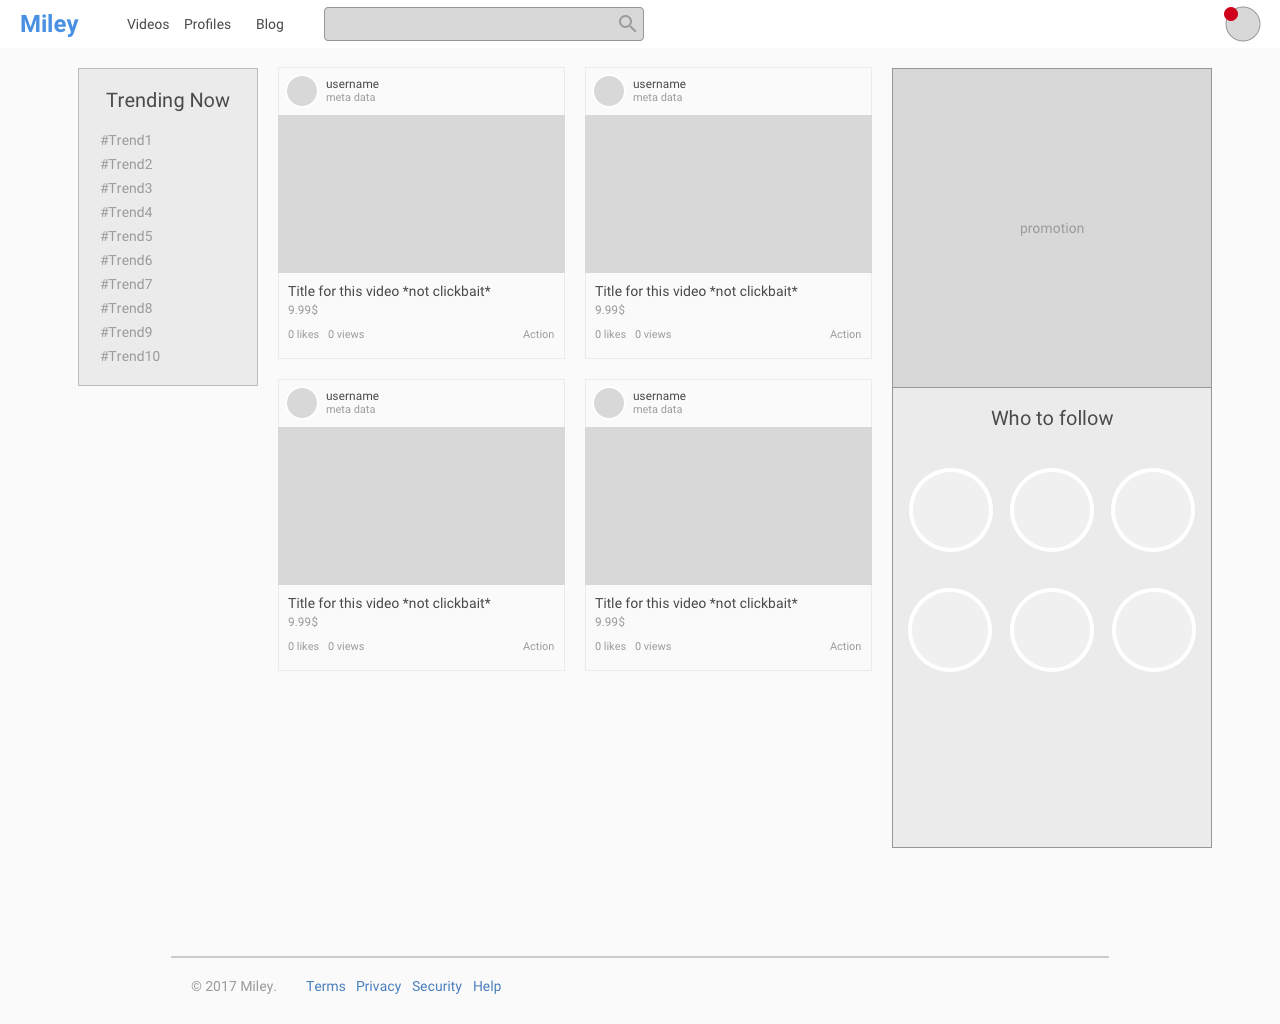
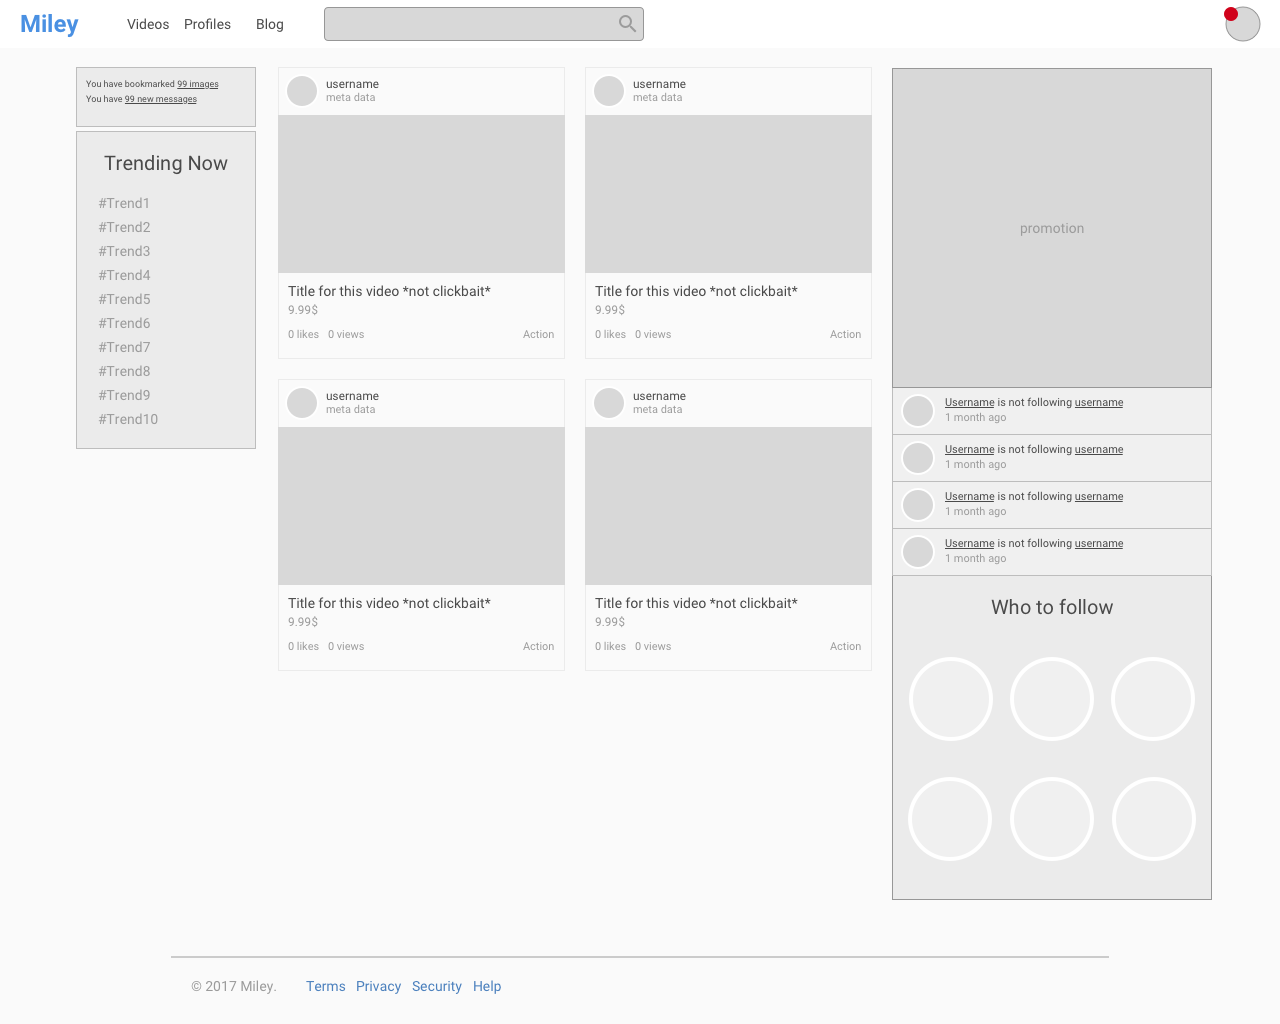
🛍

Changed region(s): [[0.0625, 0.0625, 0.1875, 0.4375], [0.6875, 0.375, 0.875, 0.5625], [0.8438, 0.5312, 0.875, 0.5625]]

diff --git a/miley/public/css/main.css b/miley/public/css/main.css
@@ -1,2 +1,2 @@
-body{background:#fafafa;font-family:"open Sans", sans-serif;font-size:14px;margin:0}a{color:#4990E2}a:active{color:#2f80de}a:hover{color:#63a0e6}.container{margin:0 auto;max-width:88em}.container::after{clear:both;content:"";display:block}.columns::after{clear:both;content:"";display:table}.columns .column.one{width:calc(16.66667% - 11.66667px);float:left;margin-left:10px}.columns .column.two{width:calc(33.33333% - 13.33333px);float:left;margin-left:10px}.columns .column.three{width:calc(50% - 15px);float:left;margin-left:10px}.columns .column.four{width:calc(66.66667% - 16.66667px);float:left;margin-left:10px}.columns .column.five{width:calc(83.33333% - 18.33333px);float:left;margin-left:10px}.columns .column.six{width:calc(100% - 20px);float:left;margin-left:10px}.navbar{background:#fff;border-bottom:1px solid #BDBDBD;height:48px}.navbar .logo{color:#4990E2;font-size:24px;font-weight:700;margin:0;position:relative;top:0.25em}.navbar ul{display:inline-block;list-style-type:none;margin:0}.navbar ul li{display:inline-block}.navbar a{color:#4A4A4A;padding:1em;text-decoration:none}.profile.header{background:#269FF0;height:420px;position:relative}.profile.header .picture{border:4px solid #fff;border-radius:50%;bottom:-90px;display:block;height:180px;overflow:hidden;position:absolute;width:180px}.profile.header .picture img{display:block}.profile.header .profile.name{color:#fff;font-size:24px;font-weight:300;margin:0;padding:0}form ul{list-style-type:none;margin:0;padding:0}form ul li{margin:0 0 1em 0}.activities{border:1px solid #BDBDBD}.activities .activity{border-bottom:1px solid #BDBDBD;background:#efefef;font-size:11px;padding:4px 0}.activities .activity::after{clear:both;content:"";display:table}.activities .activity:last-child{border-bottom:none}.activities .activity:nth-child(2n-1){background:#F0F0F0}.activities .activity .avatar{float:left;height:32px;margin:0 10px 0 4px;width:32px}.activities .activity .avatar img{border:1px solid #fff;border-radius:50%;max-width:100%}.activities .activity .picture{float:left}.activities .activity .meta{color:#9B9B9B}.activities .activity a{color:#4a4a4a}.ad.sidebar{background:#D8D8D8;border:1px solid #979797;height:320px}.recommended .title{font-size:20px;text-align:center}.recommended .profiles.list{list-style-type:none;margin:0;padding:0}.recommended .profiles .profile{display:inline-block;margin:10px;width:80px}.recommended .profiles .avatar{height:18px;width:18px}.recommended .profiles .avatar img{border:4px solid #fff;border-radius:50%;max-width:100%}#footer{border-top:1px solid #BDBDBD;color:#999;margin:4em 0 0 0;padding:0.75em 0.25em}
+body{background:#fafafa;font-family:"open Sans", sans-serif;font-size:14px;margin:0}a{color:#4990E2}a:active{color:#2f80de}a:hover{color:#63a0e6}.container{margin:0 auto;max-width:88em}.container::after{clear:both;content:"";display:block}#main-content{margin:20px 0 0 0}.columns::after{clear:both;content:"";display:table}.columns .column.one{width:calc(16.66667% - 11.66667px);float:left;margin-left:10px}.columns .column.two{width:calc(33.33333% - 13.33333px);float:left;margin-left:10px}.columns .column.three{width:calc(50% - 15px);float:left;margin-left:10px}.columns .column.four{width:calc(66.66667% - 16.66667px);float:left;margin-left:10px}.columns .column.five{width:calc(83.33333% - 18.33333px);float:left;margin-left:10px}.columns .column.six{width:calc(100% - 20px);float:left;margin-left:10px}.navbar{background:#fff;border-bottom:1px solid #BDBDBD;height:48px}.navbar .logo{color:#4990E2;font-size:24px;font-weight:700;margin:0;position:relative;top:0.25em}.navbar ul{display:inline-block;list-style-type:none;margin:0}.navbar ul li{display:inline-block}.navbar a{color:#4A4A4A;padding:1em;text-decoration:none}.profile.header{background:#269FF0;height:420px;position:relative}.profile.header .picture{border:4px solid #fff;border-radius:50%;bottom:-90px;display:block;height:180px;overflow:hidden;position:absolute;width:180px}.profile.header .picture img{display:block}.profile.header .profile.name{color:#fff;font-size:24px;font-weight:300;margin:0;padding:0}form ul{list-style-type:none;margin:0;padding:0}form ul li{margin:0 0 1em 0}.cards .card{background:#fff;border:1px solid #efefef;display:inline-block;margin:0 0 20px 0;width:288px}.cards .card .header{height:48px;padding:8px 8px 0 8px}.cards .card .header::after{clear:both;content:"";display:table}.cards .card .header .avatar{background:#efefef;border:1px solid #fff;border-radius:50%;display:inline-block;float:left;height:32px;margin:0 8px 0 0;width:32px}.cards .card .header .user.details{margin-top:8px}.cards .card .header .user .name{color:#4A4A4A;display:block;font-size:12px;line-height:0.25em}.cards .card .header .user .meta{color:#9B9B9B;display:inline-block;font-size:11px;line-height:0.25em}.cards .card .picture{background:#efefef}.cards .card .picture a{display:block;height:158px;text-decoration:none}.cards .card .description{color:#9B9B9B;font-size:12px;padding:8px}.cards .card .description .title{color:#4A4A4A;font-size:14px;line-height:1em;margin:0}.cards .card .description .title a{color:inherit;text-decoration:none}.cards .card .meta{border:0;position:relative}.cards .card .meta::after{clear:both;content:"";display:table}.cards .card .meta .actions{float:right;text-align:right}.activities{border:1px solid #BDBDBD}.activities .activity{border-bottom:1px solid #BDBDBD;background:#efefef;font-size:11px;padding:4px 0}.activities .activity::after{clear:both;content:"";display:table}.activities .activity:last-child{border-bottom:none}.activities .activity:nth-child(2n-1){background:#F0F0F0}.activities .activity .avatar{float:left;height:32px;margin:0 10px 0 4px;width:32px}.activities .activity .avatar img{border:1px solid #fff;border-radius:50%;max-width:100%}.activities .activity .picture{float:left}.activities .activity .meta{color:#9B9B9B}.activities .activity a{color:#4a4a4a}.ad.sidebar{background:#D8D8D8;border:1px solid #979797;height:320px}.sidebar{font-size:11px}.sidebar ul{list-style-type:none;margin:0;padding:0}.sidebar .widget{background:#EBEBEB;border:1px solid #BDBDBD;color:#4A4A4A;margin:0 0 4px 0;padding:8px}.trends .title{text-align:center}.trends ul li{margin:0 12px 8px 12px}.trends a{color:#9B9B9B}.recommended .title{font-size:20px;text-align:center}.recommended .profiles.list{list-style-type:none;margin:0;padding:0}.recommended .profiles .profile{display:inline-block;margin:10px;width:80px}.recommended .profiles .avatar{height:18px;width:18px}.recommended .profiles .avatar img{border:4px solid #fff;border-radius:50%;max-width:100%}#footer{color:#999;margin:2em 0 0 0;padding:2em 0.25em}#footer .container{border-top:2px solid #BDBDBD;padding-top:2em}
 /*# sourceMappingURL=main.css.map */

diff --git a/src/css/main.scss b/src/css/main.scss
@@ -31,6 +31,10 @@ a{
   max-width: 88em;
 }
 
+#main-content{
+  margin: 20px 0 0 0;
+}
+
 .columns{
   @include clearfix;
 
@@ -113,6 +117,92 @@ form{
   }
 }
 
+.cards{
+  .card{
+    background: #fff;
+    border: 1px solid #efefef;
+    display: inline-block;
+    margin: 0 0 20px 0;
+    width: 288px;
+
+    .header{
+      @include clearfix;
+      height: 48px;
+      padding: 8px 8px 0 8px;
+
+      .avatar{
+        background: #efefef;
+        border: 1px solid #fff;
+        border-radius: 50%;
+        display: inline-block;
+        float: left;
+        height: 32px;
+        margin: 0 8px 0 0;
+        width: 32px;
+      }
+
+      .user{
+        &.details{
+          margin-top: 8px;
+        }
+
+        .name{
+          color: #4A4A4A;
+          display: block;
+          font-size: 12px;
+          line-height: 0.25em;
+        }
+
+        .meta{
+          color: #9B9B9B;
+          display: inline-block;
+          font-size: 11px;
+          line-height: 0.25em;
+        }
+      }
+    }
+
+    .picture{
+      background: #efefef;
+
+      a{
+        display: block;
+        height: 158px;
+        text-decoration: none;
+      }
+    }
+
+    .description{
+      color: #9B9B9B;
+      font-size: 12px;
+      padding: 8px;
+
+      .title{
+        color: #4A4A4A;
+        font-size: 14px;
+        line-height: 1em;
+        margin: 0;
+
+        a{
+          color: inherit;
+          text-decoration: none;
+        }
+      }
+    }
+
+    .meta{
+      @include clearfix;;
+      border: 0;
+      position: relative;
+
+      .actions{
+        float: right;
+        text-align: right;
+      }
+    }
+  }
+}
+
 .activities {
   border: $borderDivider;
 
@@ -166,6 +256,38 @@ form{
   }
 }
 
+.sidebar{
+  font-size: 11px;
+
+  ul{
+    list-style-type: none;
+    margin: 0;
+    padding: 0;
+  }
+
+  .widget{
+    background: #EBEBEB;
+    border: 1px solid #BDBDBD;
+    color: #4A4A4A;
+    margin: 0 0 4px 0;
+    padding: 8px;
+  }
+}
+
+.trends{
+  .title{
+    text-align: center;
+  }
+  ul{
+    li{
+      margin: 0 12px 8px 12px;
+    }
+  }
+  a{
+    color: #9B9B9B;
+  }
+}
+
 .recommended{
   .title{
     font-size: 20px;
@@ -197,8 +319,12 @@ form{
 }
 
 #footer{
-  border-top: $borderDivider;
   color: #999;
-  margin: 4em 0 0 0;
-  padding: 0.75em 0.25em;
+  margin: 2em 0 0 0;
+  padding: 2em 0.25em;
+
+  .container{
+    border-top: 2px solid #BDBDBD;
+    padding-top: 2em;
+  }
 }

diff --git a/miley/templates/accounts/dashboard.html b/miley/templates/accounts/dashboard.html
@@ -6,39 +6,41 @@
   <div class="container">
     <div class="columns">
       <div class="sidebar one column">
-        <h2>Trending Now</h2>
-        <ul>
-          <li>
-            <a href="">#Trend1</a>
-          </li>
-          <li>
-            <a href="">#Trend2</a>
-          </li>
-          <li>
-            <a href="">#Trend3</a>
-          </li>
-          <li>
-            <a href="">#Trend4</a>
-          </li>
-          <li>
-            <a href="">#Trend5</a>
-          </li>
-          <li>
-            <a href="">#Trend6</a>
-          </li>
-        </ul>
+        <div class="notifications widget">
+          <ul>
+            <li>
+              {% with total_images_created=request.user.images_created.count %}
+                <span>You have bookmarked</span>
+                <a href="{% url 'images:list' %}">{{total_images_created}} image{{total_images_created|pluralize}}</a>
+              {% endwith %}
+            </li>
+          </ul>
+        </div>
+        <div class="trends widget">
+          <h2 class="title">Trending Now</h2>
+          <ul>
+            <li>
+              <a href="">#Trend1</a>
+            </li>
+            <li>
+              <a href="">#Trend2</a>
+            </li>
+            <li>
+              <a href="">#Trend3</a>
+            </li>
+            <li>
+              <a href="">#Trend4</a>
+            </li>
+            <li>
+              <a href="">#Trend5</a>
+            </li>
+            <li>
+              <a href="">#Trend6</a>
+            </li>
+          </ul>
+        </div>
       </div>
       <div class="feed three column">
-        <h1>Dashboard</h1>
-
-        {% with total_images_created=request.user.images_created.count %}
-          <p>
-            You have bookmarked
-            <a href="{% url 'images:list' %}">{{total_images_created}} image{{total_images_created|pluralize}}</a>
-          </p>
-        {% endwith %}
-
-        <h2>Videos</h2>
         <div class="cards">
           {% for card in videos %}
             {% include 'videos/card.html' %}

diff --git a/miley/templates/videos/card.html b/miley/templates/videos/card.html
@@ -1,32 +1,29 @@
 {% load thumbnail %}
 
-<div class="{{card}}" style="background:#fff;border:1px solid #efefef;width:420px; margin-bottom:20px;">
-  <div class="header" style="height:60px;">
-    <div class="avatar" style="float:left;height:40px;margin-right:10px;">
+<div class="card">
+  <div class="header">
+    <div class="avatar">
       avatar
     </div>
     <div class="user details">
-      <div class="name">
-        <strong>username</strong>
-      </div>
-      <div class="meta">
-        <span>location</span>
-      </div>
+      <span class="name">username</span>
+      <span class="meta">location</span>
     </div>
   </div>
-  <div class="picture" style="background:#efefef;height:240px;">
-    <a href="" style="display:block;height:100%;text-decoration:none;width:100%">
-      <em style="text-align:center;padding-top:25%;display:block;color:#ccc">preview will be here</em>
-    </a>
+  <div class="picture">
+    <a href="">&nbsp;</a>
   </div>
   <div class="description">
-    <h3 class="title">Title for this video *not clickbait*</h3>
+    <h3 class="title">
+      <a href="">Title for this video *not clickbait*</a>
+    </h3>
     <p>price: 99.99&dollar;</p>
     <div class="meta">
       <span>0 likes</span>
       <span>0 views</span>
-      <span>Action</span>
-      <br>&nbsp;
+      <span class="actions">
+        <span>Action</span>
+      </span>
     </div>
   </div>
 </div>
